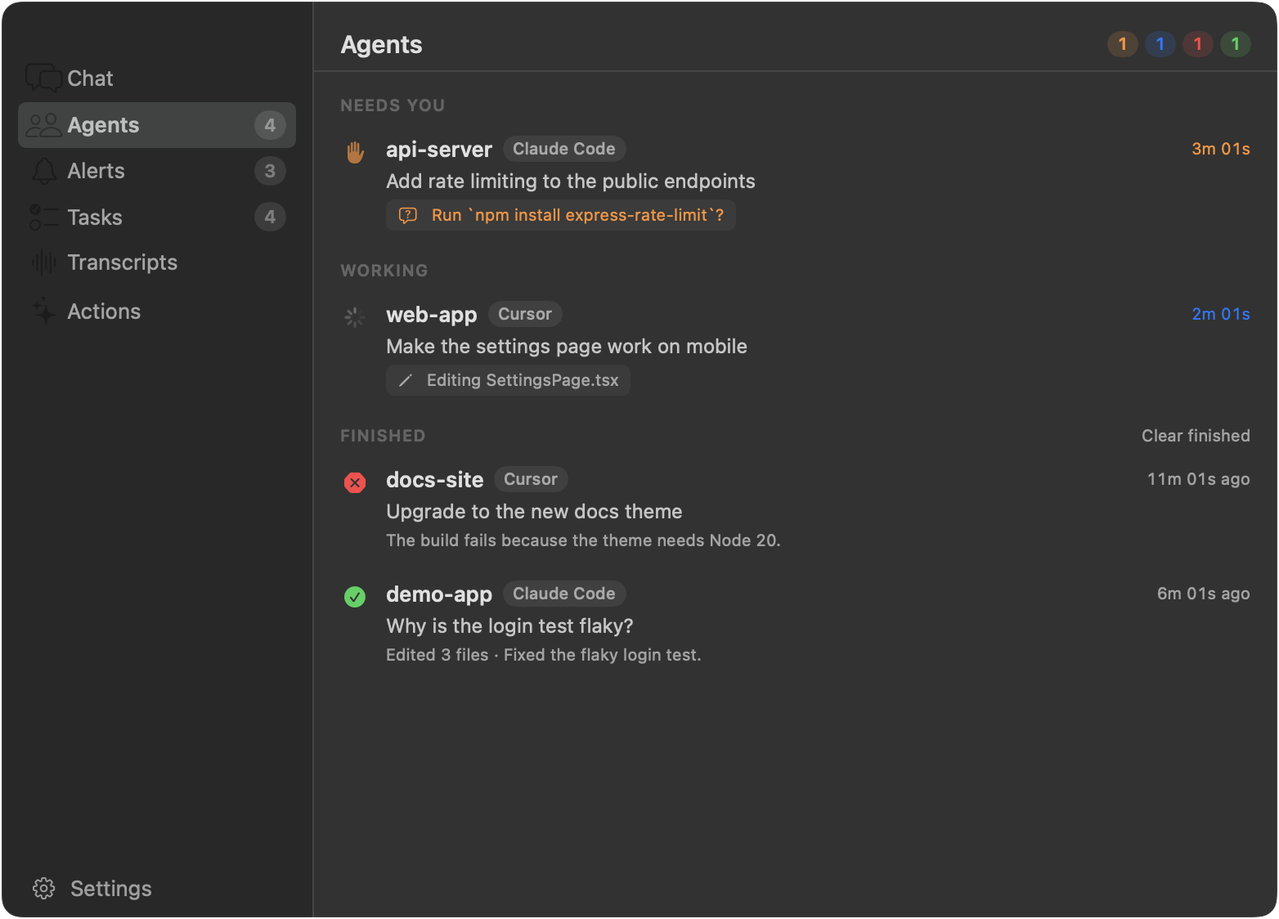
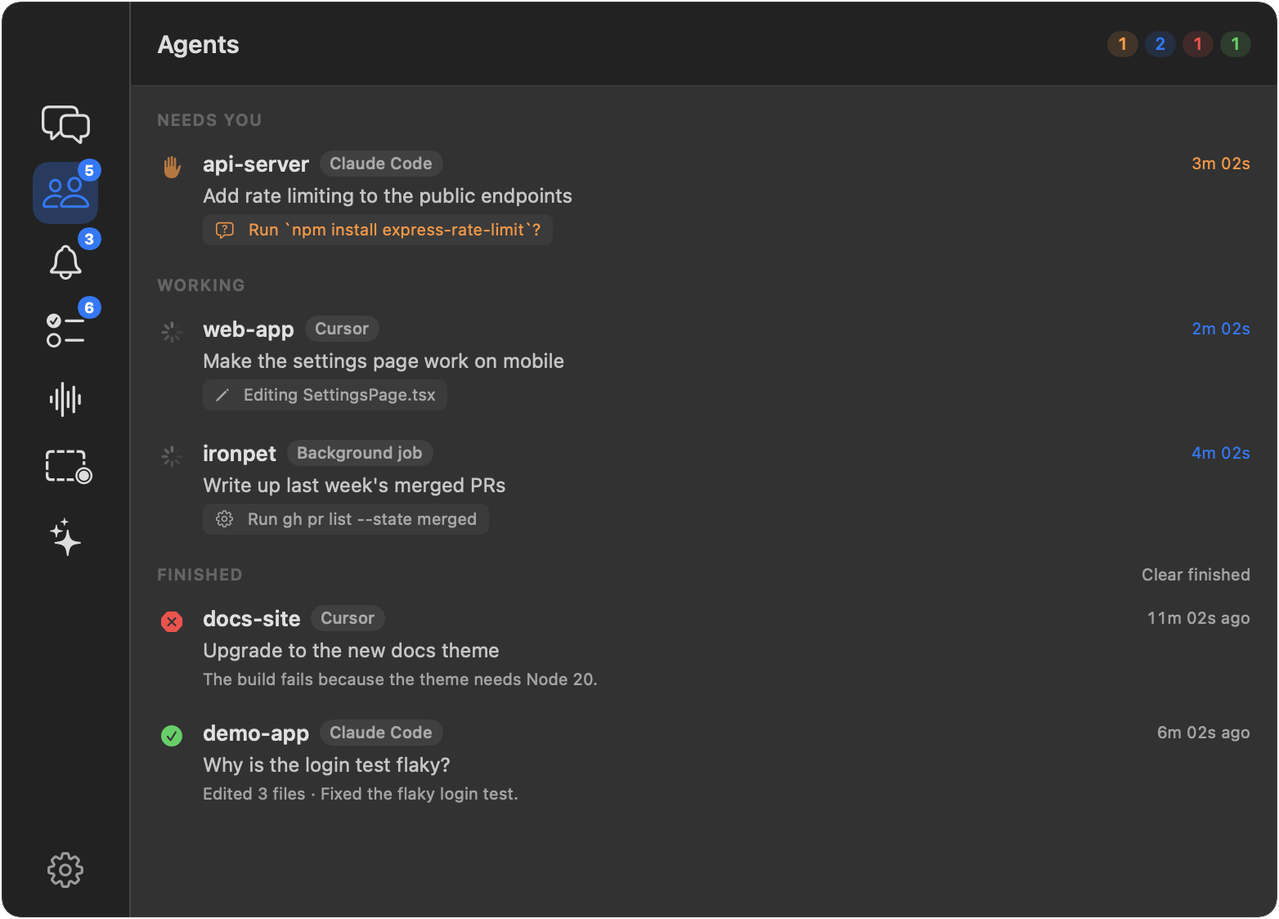
fix: match Cursor folders by path and keep follow-ups visible in job threads
- projects_resolve and jobs_start compare folders by standardized path, so a
  Cursor folder (file:// URL with a trailing slash) is one candidate
- no iTerm Apple Event on the main thread; watched sessions' folders count
- a job saves its thread when a turn starts, and the open thread keeps typed
  follow-ups the job has not started on
- interrupted jobs are marked in one UPDATE; the in-memory list is trimmed
- approval rule cases for the assistant tools; SECURITY wording on /mcp/job

diff --git a/Sources/IronPet/Jobs/JobService.swift b/Sources/IronPet/Jobs/JobService.swift
@@ -22,7 +22,7 @@ struct JobError: Error, LocalizedError {
 /// a job that was running when ironpet quit shows as interrupted on the next launch.
 @MainActor
 final class JobService: ObservableObject {
-    static let migrations: [Database.Migration] = [
+    nonisolated static let migrations: [Database.Migration] = [
         .init(500, "jobs: background jobs", sql: """
             CREATE TABLE jobs(id TEXT PRIMARY KEY, title TEXT NOT NULL, prompt TEXT NOT NULL, folder TEXT NOT NULL, agent TEXT NOT NULL,
                               model TEXT, thread TEXT, task TEXT, state TEXT NOT NULL, last_step TEXT, summary TEXT, error TEXT,
@@ -94,8 +94,8 @@ final class JobService: ObservableObject {
         self.tasks = tasks
         self.now = now
         prune()
-        jobs = load()
         interruptLeftovers()
+        jobs = load()
     }
 
     var unavailable: String? { database.unavailableReason }
@@ -128,6 +128,7 @@ final class JobService: ObservableObject {
             job.task = task?.id
         }
         jobs.insert(job, at: 0)
+        trim()
         save(job)
         onChange(job)
         pump()
@@ -237,6 +238,7 @@ final class JobService: ObservableObject {
                                workspace: URL(fileURLWithPath: job.folder), resume: self.job(id)?.thread, model: job.model,
                                images: [], files: [])
             run.transcript.beginTurn(.init(kind: .user(text), origin: ChatSession.jobOrigin))
+            saveThread(id, run: run)
             let error = await turnResult(id, run: run, turn: turn, agentName: agent.name)
             outcome = .some(error)
             saveThread(id, run: run)
@@ -376,16 +378,29 @@ final class JobService: ObservableObject {
 
     /// A job that was queued or running when ironpet quit has no process any more. Its task goes back to the backlog.
     private func interruptLeftovers() {
-        for job in jobs where job.state.isActive {
-            update(job.id) { job in
-                job.state = .interrupted
-                job.ended = self.now()
-                job.waitingFor = nil
-            }
-            if let task = job.task, tasks?.task(task)?.status == .inProgress {
-                _ = try? tasks?.update(task, status: .backlog, note: "ironpet quit while this job was running. Ask Ghost to run it again.",
-                                       by: Self.taskAuthor)
-            }
+        let active = JobState.allCases.filter(\.isActive).map(\.rawValue)
+        let marks = Array(repeating: "?", count: active.count).joined(separator: ", ")
+        let tasks = (try? database.read { db in
+            try db.rows("SELECT task FROM jobs WHERE state IN (\(marks)) AND task IS NOT NULL", active)
+        })?.compactMap { $0[0] as? String } ?? []
+        try? database.write { db in
+            try db.execute("UPDATE jobs SET state = ?, ended = ? WHERE state IN (\(marks))",
+                           [JobState.interrupted.rawValue, now().timeIntervalSince1970] + active)
+        }
+        for task in tasks where self.tasks?.task(task)?.status == .inProgress {
+            _ = try? self.tasks?.update(task, status: .backlog, note: "ironpet quit while this job was running. Ask Ghost to run it again.",
+                                        by: Self.taskAuthor)
+        }
+    }
+
+    /// Keeps the active jobs and the newest finished ones, `listed` in all.
+    private func trim() {
+        guard jobs.count > Self.listed else { return }
+        var finished = Self.listed - jobs.filter(\.state.isActive).count
+        jobs = jobs.filter { job in
+            if job.state.isActive { return true }
+            finished -= 1
+            return finished >= 0
         }
     }
 

diff --git a/Tests/IronPetTests/JobTests.swift b/Tests/IronPetTests/JobTests.swift
@@ -14,6 +14,7 @@ private final class FakeJobAgent: JobAgent {
     private(set) var cancelled = false
     private(set) var shutDown = false
     private var gate: CheckedContinuation<Void, Never>?
+    var isWaiting: Bool { gate != nil }
 
     func runTurn(_ turn: ACPTurn, onEvent: @escaping (AgentEvent) -> Void) async {
         turns.append(turn)
@@ -33,8 +34,9 @@ private final class FakeJobAgent: JobAgent {
         onEvent(.finished(error: error))
     }
 
-    func release() {
-        hold = false
+    /// Ends the turn that waits. Later turns wait too only with `holdingNext`.
+    func release(holdingNext: Bool = false) {
+        hold = holdingNext
         gate?.resume()
         gate = nil
     }
@@ -209,6 +211,22 @@ final class JobTests: XCTestCase {
         XCTAssertEqual(agents[0].turns[1].resume, "session-1")
     }
 
+    func testTheThreadShowsEachPromptAsSoonAsItsTurnStarts() async throws {
+        let jobs = service { $0.hold = true }
+        var saved: [ChatThread] = []
+        jobs.onThreadSaved = { saved.append($0) }
+        let job = try jobs.start(title: "Fix", prompt: "Fix it", folder: folder)
+        await until { agents.count == 1 }
+        try jobs.followUp(job.id, message: "Also update the README")
+        await until { agents[0].isWaiting }
+        agents[0].release(holdingNext: true)
+        await until { agents[0].turns.count == 2 }
+        let texts = saved.last?.items.compactMap { item -> String? in if case .user(let text) = item.kind { text } else { nil } }
+        XCTAssertEqual(texts, ["Fix it", "Also update the README"], "the follow-up is in the thread while its turn runs")
+        agents[0].release()
+        await until { jobs.job(job.id)?.state == .done }
+    }
+
     func testFollowUpOnAFinishedJobResumesItsSession() async throws {
         let jobs = service()
         let job = try jobs.start(title: "Fix", prompt: "Fix it", folder: folder)
@@ -268,6 +286,31 @@ final class JobTests: XCTestCase {
         job.state = .stopped
         store.setJob(key, job.agentSession)
         XCTAssertNil(store.sessions[key])
+    }
+
+    func testAMessageTypedInARunningJobsThreadGoesToTheJobAndStaysVisible() {
+        let chat = ChatSession(restore: false)
+        func thread(_ prompts: [String]) -> ChatThread {
+            ChatThread(id: "session-1", title: "Fix", workspace: folder.path, updatedAt: Date(),
+                       items: prompts.map { .init(kind: .user($0), origin: ChatSession.jobOrigin) }, agent: AgentCatalog.all[0].id, job: "job-1")
+        }
+        chat.open(thread(["Fix it"]))
+        var routed: [(String, String)] = []
+        chat.jobFollowUp = { thread, text in
+            routed.append((thread, text))
+            return true
+        }
+        chat.input = "Also update the README"
+        chat.send()
+        XCTAssertEqual(routed.map(\.1), ["Also update the README"])
+        XCTAssertEqual(routed.map(\.0), ["session-1"])
+        XCTAssertEqual(chat.input, "")
+
+        func prompts() -> [String] { chat.items.compactMap { if case .user(let text) = $0.kind { text } else { nil } } }
+        chat.threadSaved(thread(["Fix it"]))
+        XCTAssertEqual(prompts(), ["Fix it", "Also update the README"], "kept until the job starts on it")
+        chat.threadSaved(thread(["Fix it", "Also update the README"]))
+        XCTAssertEqual(prompts(), ["Fix it", "Also update the README"], "not shown twice")
     }
 
     func testHookEventsCannotPoseAsAJob() {

diff --git a/Sources/IronPet/Jobs/ProjectResolver.swift b/Sources/IronPet/Jobs/ProjectResolver.swift
@@ -3,12 +3,14 @@ import Foundation
 /// A folder a job may run in, and why ironpet knows it.
 struct ProjectCandidate: Equatable {
     enum Source: String {
-        /// The folder of the app the user was in (the front Cursor window or iTerm tab).
+        /// The folder of the front Cursor window, when Cursor is the app the user was in.
         case frontmost
         /// The chat's current folder.
         case chat
         /// A folder open in Cursor.
         case cursor
+        /// The folder of an agent session ironpet watches (Claude Code in iTerm, Cursor and the others).
+        case session
         /// A folder the chat used before.
         case recent
         /// `~/.ironpet/scratch`, for work that is not about code.
@@ -33,24 +35,38 @@ enum ProjectResolver {
         var ambiguous: Bool { best == nil && matches.count > 1 }
     }
 
-    /// Merges the sources in order of preference, one candidate per folder. Missing folders are dropped.
-    static func candidates(frontmost: URL?, chat: URL?, cursor: [URL], recents: [URL], scratch: URL,
+    /// Merges the sources in order of preference, one candidate per folder. Missing folders are dropped. Folders are compared
+    /// by path: Cursor's `file://` URLs end in a slash and `fileURLWithPath` ones may not.
+    static func candidates(frontmost: URL?, chat: URL?, cursor: [URL], sessions: [URL] = [], recents: [URL], scratch: URL,
                            exists: (URL) -> Bool = { FileManager.default.fileExists(atPath: $0.path) }) -> [ProjectCandidate] {
         var list: [ProjectCandidate] = []
+        let scratchPath = path(scratch)
         func add(_ url: URL?, _ source: ProjectCandidate.Source) {
-            guard let url = url?.standardizedFileURL else { return }
-            if let index = list.firstIndex(where: { $0.url == url }) {
+            guard let url, url.isFileURL else { return }
+            let key = path(url)
+            guard source == .noProject || key != scratchPath else { return }
+            if let index = list.firstIndex(where: { path($0.url) == key }) {
                 if !list[index].sources.contains(source) { list[index].sources.append(source) }
             } else if source == .noProject || exists(url) {
-                list.append(ProjectCandidate(url: url, sources: [source]))
+                list.append(ProjectCandidate(url: URL(fileURLWithPath: key, isDirectory: true), sources: [source]))
             }
         }
         add(frontmost, .frontmost)
-        add(chat == scratch ? nil : chat, .chat)
+        add(chat, .chat)
         cursor.forEach { add($0, .cursor) }
-        recents.filter { $0 != scratch }.forEach { add($0, .recent) }
+        sessions.forEach { add($0, .session) }
+        recents.forEach { add($0, .recent) }
         add(scratch, .noProject)
         return list
+    }
+
+    /// The standardized path, without a trailing slash, that two spellings of a folder share.
+    static func path(_ url: URL) -> String { url.standardizedFileURL.path }
+
+    /// The candidate for `path`, however it is spelled (`~`, a trailing slash, `..`).
+    static func candidate(at path: String, in candidates: [ProjectCandidate]) -> ProjectCandidate? {
+        let key = self.path(URL(fileURLWithPath: (path as NSString).expandingTildeInPath))
+        return candidates.first { self.path($0.url) == key }
     }
 
     static func resolve(_ name: String?, in candidates: [ProjectCandidate]) -> Result {

diff --git a/Tests/IronPetTests/AssistantMCPTests.swift b/Tests/IronPetTests/AssistantMCPTests.swift
@@ -71,7 +71,8 @@ final class AssistantMCPTests: XCTestCase {
         let jobs = JobService(database: database, tasks: nil)
         jobs.currentAgent = { nil }
         context.jobs = { jobs }
-        context.projects = { [folder] in [ProjectCandidate(url: folder!.standardizedFileURL, sources: [.chat])] }
+        let cursorURL = try XCTUnwrap(URL(string: "file://" + folder.path + "/"))
+        context.projects = { ProjectResolver.candidates(frontmost: cursorURL, chat: nil, cursor: [], recents: [], scratch: URL(fileURLWithPath: "/tmp/scratch")) }
 
         let invented = try await call("jobs_start", ["title": "Fix", "prompt": "Fix it", "folder": "/tmp/made-up"])
         XCTAssertTrue(invented.isError)
@@ -164,6 +165,21 @@ final class ProjectResolverTests: XCTestCase {
         let unknown = ProjectResolver.resolve("zebra", in: candidates())
         XCTAssertNil(unknown.best)
         XCTAssertFalse(unknown.ambiguous)
+    }
+
+    func testCursorURLsAndPathsOfTheSameFolderAreOneCandidate() throws {
+        let folder = FileManager.default.temporaryDirectory.appendingPathComponent("resolver-\(UUID().uuidString)/ironpet")
+        try FileManager.default.createDirectory(at: folder, withIntermediateDirectories: true)
+        defer { try? FileManager.default.removeItem(at: folder.deletingLastPathComponent()) }
+        let cursor = try XCTUnwrap(URL(string: "file://" + folder.path + "/"))
+        let list = ProjectResolver.candidates(frontmost: cursor, chat: nil, cursor: [cursor], sessions: [URL(fileURLWithPath: folder.path)],
+                                              recents: [URL(fileURLWithPath: folder.path, isDirectory: true)], scratch: scratch)
+        XCTAssertEqual(list.count, 2)
+        XCTAssertEqual(list[0].sources, [.frontmost, .cursor, .session, .recent])
+        XCTAssertEqual(ProjectResolver.resolve("ironpet", in: list).best?.url.path, folder.path)
+        XCTAssertNotNil(ProjectResolver.candidate(at: folder.path + "/", in: list))
+        XCTAssertNotNil(ProjectResolver.candidate(at: folder.path, in: list))
+        XCTAssertNil(ProjectResolver.candidate(at: folder.path + "-other", in: list))
     }
 
     func testNoNamePrefersTheFrontmostProject() {

diff --git a/Sources/IronPet/Chat/ChatSession.swift b/Sources/IronPet/Chat/ChatSession.swift
@@ -580,6 +580,7 @@ final class ChatSession: ObservableObject {
         replyingTo = nil
         items = []
         threadID = nil
+        jobMessages = []
         state = .idle
         lastRunDuration = nil
     }
@@ -596,6 +597,7 @@ final class ChatSession: ObservableObject {
         replyingTo = nil
         items = thread.items
         threadID = thread.id
+        jobMessages = []
         state = .idle
         let url = URL(fileURLWithPath: thread.workspace)
         workspace = url
@@ -633,8 +635,16 @@ final class ChatSession: ObservableObject {
     func threadSaved(_ thread: ChatThread) {
         refreshHistory()
         guard thread.id == threadID, !isRunning else { return }
-        items = thread.items
+        let sent = Set(thread.items.compactMap { item -> String? in
+            if case .user(let text) = item.kind { return text } else { return nil }
+        })
+        // Messages typed here that the job has not started on yet are not in its transcript.
+        jobMessages.removeAll { item in if case .user(let text) = item.kind { sent.contains(text) } else { true } }
+        items = thread.items + jobMessages
     }
+
+    /// Messages typed into the open job thread that are waiting for the job's current turn to end.
+    private var jobMessages: [Item] = []
 
     /// Takes a message typed in a thread whose background job is still running (thread id, text). Returns false when no
     /// job runs there, so the chat sends it itself.
@@ -645,7 +655,9 @@ final class ChatSession: ObservableObject {
         guard !prompt.isEmpty || !attachments.isEmpty else { return }
         speech.stop()
         if !isRunning, attachments.isEmpty, replyingTo == nil, let threadID, jobFollowUp?(threadID, prompt) == true {
-            items.append(Item(kind: .user(prompt), origin: Self.jobOrigin))
+            let item = Item(kind: .user(prompt), origin: Self.jobOrigin)
+            items.append(item)
+            jobMessages.append(item)
             input = ""
             return
         }

diff --git a/Sources/IronPet/App/AppDelegate.swift b/Sources/IronPet/App/AppDelegate.swift
@@ -353,8 +353,12 @@ final class AppDelegate: NSObject, NSApplicationDelegate {
             guard let self else { return [] }
             let front = NSWorkspace.shared.frontmostApplication
             let app = front?.processIdentifier == ProcessInfo.processInfo.processIdentifier ? previousApp : front
-            return ProjectResolver.candidates(frontmost: WorkspaceDetector.workspace(of: app), chat: chat.workspace,
-                                              cursor: WorkspaceDetector.cursorOpenFolders(), recents: chat.recents,
+            // Only Cursor's window: iTerm's folder needs an Apple Event, which could block here and prompt mid tool call.
+            // A terminal agent's folder comes in through its session instead.
+            let frontmost = app?.bundleIdentifier == SourceJumper.cursorBundleID ? WorkspaceDetector.workspace(of: app) : nil
+            let sessions = store.sessions.values.sorted { $0.updatedAt > $1.updatedAt }.compactMap { $0.origin.workspace }
+            return ProjectResolver.candidates(frontmost: frontmost, chat: chat.workspace, cursor: WorkspaceDetector.cursorOpenFolders(),
+                                              sessions: sessions.map { URL(fileURLWithPath: $0) }, recents: chat.recents,
                                               scratch: ChatSession.scratchWorkspace)
         }
         context.openJob = { [weak self] id in

diff --git a/Tests/IronPetTests/ApprovalRulesTests.swift b/Tests/IronPetTests/ApprovalRulesTests.swift
@@ -90,6 +90,20 @@ final class ApprovalRulesTests: XCTestCase {
         }
     }
 
+    func testAssistantReadsAndMemoryRunWithoutACardButJobControlAsks() {
+        for tool in ["status_overview", "status_sessions", "jobs_list", "jobs_get", "jobs_open", "projects_resolve",
+                     "memory_recall", "memory_remember", "memory_forget", "memory_list"] {
+            XCTAssertEqual(policy(ACPToolCall(id: "1", title: "mcp__ironpet__\(tool)", kind: "other", rawInput: ["text": "x"])), .allow, tool)
+            if case .allow = policy(ACPToolCall(id: "1", title: "mcp__other__\(tool)", kind: "other")) { XCTFail("another server must ask: \(tool)") }
+        }
+        for tool in ["jobs_start", "jobs_followup", "jobs_stop"] {
+            if case .allow = policy(ACPToolCall(id: "1", title: "mcp__ironpet__\(tool)", kind: "other", rawInput: ["id": "job-1"])) {
+                XCTFail("\(tool) must ask without Auto")
+            }
+            XCTAssertEqual(policy(ACPToolCall(id: "1", title: "mcp__ironpet__\(tool)", kind: "other", rawInput: ["id": "job-1"]), auto: true), .allow, tool)
+        }
+    }
+
     func testMCPNameFromAgentMetadata() {
         let call = ACPToolCall(json: ["toolCallId": "1", "title": "Query", "kind": "other", "_meta": ["claudeCode": ["toolName": "mcp__langfuse__getHealth"]]])
         XCTAssertEqual(call.mcp?.server, "langfuse")

diff --git a/Sources/IronPet/Jobs/AssistantMCP.swift b/Sources/IronPet/Jobs/AssistantMCP.swift
@@ -109,9 +109,7 @@ enum AssistantMCP {
         switch name {
         case "jobs_start":
             let path = try required("folder")
-            let folder = URL(fileURLWithPath: (path as NSString).expandingTildeInPath).standardizedFileURL
-            let candidates = context.projects()
-            guard let candidate = candidates.first(where: { $0.url == folder }) else {
+            guard let candidate = ProjectResolver.candidate(at: path, in: context.projects()) else {
                 throw JobError(message: "\(path) is not a folder ironpet knows. Call projects_resolve and use a path it returns.")
             }
             if candidate.sources.contains(.noProject) {

diff --git a/SPEC.md b/SPEC.md
@@ -128,12 +128,12 @@ The agent's board, not the user's: the agent keeps track of the items, the user 
 
 Ghost as a front desk: the chat agent (and, later, voice mode) hands work to background jobs and answers "what's going on" from ironpet's own stores.
 
-- **Model and store (`Jobs/JobModel.swift`, `Jobs/JobService.swift`).** Migration 500 adds `jobs` (id `job-xxxxxx`, title, prompt, folder, agent, model, thread, task, state, last step, summary, error, created, started, ended). States: `queued`, `running`, `needs_approval`, `done`, `failed`, `stopped`, `interrupted`. At launch, jobs that ended more than 30 days ago are deleted and active ones become `interrupted` (their in-progress task goes back to `backlog`). The newest 50 are kept in memory.
+- **Model and store (`Jobs/JobModel.swift`, `Jobs/JobService.swift`).** Migration 500 adds `jobs` (id `job-xxxxxx`, title, prompt, folder, agent, model, thread, task, state, last step, summary, error, created, started, ended). States: `queued`, `running`, `needs_approval`, `done`, `failed`, `stopped`, `interrupted`. At launch, jobs that ended more than 30 days ago are deleted and every active one becomes `interrupted` in one `UPDATE` (their in-progress task goes back to `backlog`). In memory: the active jobs and the newest finished ones, 50 in all.
 - **Running.** `JobService.start` validates (title 1 to 120 characters, prompt up to 20,000, an existing folder), creates an `in_progress` task with source `agent`, and queues the job. `pump` starts queued jobs, oldest first, while fewer than `jobs.maxRunning` (3, clamped to 1 to 5) hold a process. Each gets its own `ACPBackend` (`JobAgent` protocol, faked in tests) with `usageFeature = .jobs`, the chat's agent and model, and a first-turn preamble: `JobService.instructions` (unattended, no questions, stay in the folder, no pushes or messages unless asked, end with a one-sentence result) plus `Memory.preamble`. Elicitations are declined. Each turn has a 60-minute watchdog that cancels it and fails the job. Events go through `TranscriptRecorder` (shared with `AutomationSession`); the thread is saved under the ACP session id with `ChatThread.job`, and the task gets a `thread` link. The job ends `done` with the first sentence of the reply as its summary (task closed), `failed` (task `needs_you` with the error), or `stopped` (task closed).
 - **Approvals.** Permission requests get `ApprovalRules.policy(for:auto: true)`. What still asks (destructive commands and tools) moves the job to `needs_approval` and shows an Allow / Deny bubble (`AutomationNotice`, no expiry). Only a click answers it. Opening the job shows a closed bubble again; stopping the job or the end of the turn takes it down and denies.
 - **Follow-ups and stop.** `followUp` queues a message for a running job (sent after its turn, same process) or requeues a finished one, which resumes the session (`session/load`) without a preamble. `stop` drops a queued job, or cancels the running turn (`session/cancel`), denies its pending approvals and shuts the process down.
-- **In the app.** `Job.agentSession` maps a job to an `AgentSession` with source `job` ("Background job") under the key `job:<id>`, set through `SessionStore.setJob`: queued and running show as running (detail "Waiting to start" or the last step), `needs_approval` as needs input with "Wants to: …", done and failed as themselves, stopped and interrupted are removed. Hook events with source `job` are ignored, and `sweep` skips jobs. `onAttention` records activity as for any session; a job's needs input shows no session bubble, because the approval bubble covers it. A click on the row, the bubble or a brief item opens the job's thread in the chat (`PetController.onOpenJob`). While the job runs, `ChatSession.jobFollowUp` sends a message typed in that thread to the job instead, and `threadSaved` refreshes the open thread as the job writes it. Its prompts carry origin `job` ("Background job" under the message).
-- **Tools (`Jobs/AssistantMCP.swift`, routed by `MCPEndpoint` through `AssistantContext`).** `jobs_start(title, prompt, folder)`, `jobs_list(include_older?)`, `jobs_get(id)` (with the last 8 transcript steps), `jobs_followup(id, message)`, `jobs_stop(id)`, `jobs_open(id)` (refused while the chat is running a turn, since opening a thread ends it). `projects_resolve(name?)` returns `best`, `matches` and `ambiguous` from `ProjectResolver`: candidates are the frontmost app's folder (`WorkspaceDetector`), the chat's folder, Cursor's open folders (`storage.json`), recent chat folders and the no-project folder, deduplicated, missing folders dropped. Names are compared as lowercase letters and digits after dropping filler words ("the", "repo", "project"): same name 3, containment 2, same first three letters 1, and a single top score wins. `jobs_start` only accepts a candidate's path. `status_overview`, `status_sessions`, `status_alerts`, `status_today(kind)` and `status_meetings(limit?)` read `SessionStore` (jobs left out), `TaskStore`, `SignalStore`, `BriefSource` and `MeetingLibrary` (with `ActionItems.openItems` of each summary). `memory_recall`, `memory_remember(text, kind, workspace?)`, `memory_forget(text)` and `memory_list(kind?)` go to `MemoryStore`. Everything but `jobs_start`, `jobs_followup` and `jobs_stop` is in `ApprovalRules.ownTaskTools`.
+- **In the app.** `Job.agentSession` maps a job to an `AgentSession` with source `job` ("Background job") under the key `job:<id>`, set through `SessionStore.setJob`: queued and running show as running (detail "Waiting to start" or the last step), `needs_approval` as needs input with "Wants to: …", done and failed as themselves, stopped and interrupted are removed. Hook events with source `job` are ignored, and `sweep` skips jobs. `onAttention` records activity as for any session; a job's needs input shows no session bubble, because the approval bubble covers it. A click on the row, the bubble or a brief item opens the job's thread in the chat (`PetController.onOpenJob`). While the job runs, `ChatSession.jobFollowUp` sends a message typed in that thread to the job instead, and `threadSaved` refreshes the open thread as the job writes it, keeping typed messages the job has not started on yet. The job saves its thread when each turn starts and ends. Its prompts carry origin `job` ("Background job" under the message).
+- **Tools (`Jobs/AssistantMCP.swift`, routed by `MCPEndpoint` through `AssistantContext`).** `jobs_start(title, prompt, folder)`, `jobs_list(include_older?)`, `jobs_get(id)` (with the last 8 transcript steps), `jobs_followup(id, message)`, `jobs_stop(id)`, `jobs_open(id)` (refused while the chat is running a turn, since opening a thread ends it). `projects_resolve(name?)` returns `best`, `matches` and `ambiguous` from `ProjectResolver`: candidates are the front Cursor window's folder (`WorkspaceDetector`; iTerm is not asked, since that is an Apple Event on the main thread), the chat's folder, Cursor's open folders (`storage.json`), the folders of watched agent sessions, recent chat folders and the no-project folder, compared by standardized path (Cursor's URLs end in a slash), missing folders dropped. Names are compared as lowercase letters and digits after dropping filler words ("the", "repo", "project"): same name 3, containment 2, same first three letters 1, and a single top score wins. `jobs_start` only accepts a candidate's path. `status_overview`, `status_sessions`, `status_alerts`, `status_today(kind)` and `status_meetings(limit?)` read `SessionStore` (jobs left out), `TaskStore`, `SignalStore`, `BriefSource` and `MeetingLibrary` (with `ActionItems.openItems` of each summary). `memory_recall`, `memory_remember(text, kind, workspace?)`, `memory_forget(text)` and `memory_list(kind?)` go to `MemoryStore`. Everything but `jobs_start`, `jobs_followup` and `jobs_stop` is in `ApprovalRules.ownTaskTools`.
 - **Job scope.** A job's session gets ironpet's MCP entry with `IRONPET_MCP_SCOPE=job`, so its stdio bridge posts to `/mcp/job`, which leaves `jobs_start`, `jobs_followup`, `jobs_stop` and `jobs_open` out of `tools/list` and refuses them. A job cannot start or steer jobs.
 - **Memory (`Chat/MemoryStore.swift`).** `MemoryStore` is the interface (recall, remember, forget, list) so another memory module can replace the files. `FileMemoryStore` writes bullets to `me.md` (fact), `people.md` (person), `conversations.md` (conversation, stamped `yyyy-MM-dd HH:mm`, last 50 kept) and the project file (`Memory.projectFile`). A line is whitespace-collapsed, at most 500 characters, refused when `CaptureRedactor` finds a secret, and skipped when it repeats one (case-insensitive). `forget` needs 3 characters and refuses to remove more than 10 lines. `Memory.preamble` adds `people.md` when it has bullets.
 

diff --git a/SECURITY.md b/SECURITY.md
@@ -17,7 +17,7 @@ Please use GitHub's **Report a vulnerability** button on the repository's Securi
 - **One download, only when you allow it.** If you pick Claude Code, Codex or Pi and your PATH has no Node 22 or newer, the chat shows a **Download Bun** button instead of failing. Only a click starts the download. ironpet fetches Bun 1.4.4 (about 40 MB) from `github.com/oven-sh/bun`, reads the expected SHA-256 from the same release's `SHASUMS256.txt`, and unpacks the archive only if the checksum matches. It then clears the macOS quarantine flag on that file and keeps it at `~/.ironpet/runtime/bun`. A mismatch or a failed download shows an error and runs nothing. This is the only network request ironpet makes on its own initiative besides the optional GitHub, Sentry and voice features below.
 - **Telegram (off by default).** With Chat from Telegram on, ironpet long-polls `api.telegram.org` for the bot whose token you saved in Settings → Integrations, and sends each answer to a Telegram-started message back through the same API, so that text passes through Telegram's servers. Only Telegram user ids in `telegram.allowedUsers` reach the chat; everyone else is ignored. With nobody allowed, a `/start` shows an Allow / Deny bubble on the Mac, and only the first user can be paired that way. An allowed user can start turns in the chat that is open on the Mac, so treat their account like your own. A turn started from Telegram follows the same approval rules as one typed on the Mac. With Auto on, an allowed Telegram user can run non-destructive commands, file edits and MCP tools without anyone approving them, so keep `telegram.allowedUsers` short. Destructive commands still ask, and the card goes to Telegram as Approve / Reject buttons as well as to the Mac. With Auto off, edits, deletions and shell commands ask as usual. Reads, searches and read-only tools run without a card. Files an allowed user sends are saved under `~/.ironpet/telegram/files/` (up to 20 MB each) and handed to the agent, and voice messages go to the transcription server from Settings → Voice. An allowed user can also approve or reject tool approvals of a turn they started, from Telegram. The token is in the Keychain item `ironpet.telegram`, never in `~/.ironpet`.
 - **Tasks.** The chat agent and any program that can read `~/.ironpet/token` (the `IronPet tasks` CLI) can create, change and delete tasks through the local server. Tasks are data in `ironpet.db` and never run anything, so the tools need no approval card, like memory-note edits. An automation `prompt` action runs in your chat with the chat's full tools, so it can change tasks and files like anything you type there. An agent that creates or changes one needs your Approve first. A prompt that uses poll item data (`{{item.*}}`) never goes to the chat, because that text comes from outside. It runs in a background agent that gets no MCP tools and cannot change tasks, like the one for meeting summaries. Meeting action items come from what people said on a call, so they are only suggestions until you press Add in the Tasks section or a chat agent accepts them with `tasks_suggestion_accept`, and they are never sent to an agent as instructions. The same goes for a watcher automation's `suggest_task` action: text from an email, a chat message or an issue only becomes a suggestion, with control characters removed, length limits, at most 10 per run and only an http or https link, and it becomes a task only when you press Add. The agent is told that task text is data.
-- **Background jobs.** A chat agent can start a job (`jobs_start`), which runs your chosen agent unattended in a folder ironpet already knows (the app you're in, the chat's folder, folders open in Cursor, recent chat folders, or `~/.ironpet/scratch`); a path the agent makes up is refused. In a chat without **Auto**, starting, adding to and stopping a job asks first. The job's own permission requests are answered as if Auto were on: commands and file edits run without a card, destructive commands (`rm -rf`, `git push --force`, `git reset --hard`, dropping tables and similar) wait for a click on Allow in a bubble. Only a click approves, never a chat or spoken answer. The Auto caveats above apply: a command that is harmful but not on the destructive list runs, and an agent that runs tools without asking does so with no card. The job's session cannot start, steer or stop other jobs (`/mcp/job` leaves those tools out). Its transcript is saved in `~/.ironpet/threads` and its prompt, folder and last step in `ironpet.db` for 30 days.
+- **Background jobs.** A chat agent can start a job (`jobs_start`), which runs your chosen agent unattended in a folder ironpet already knows (the front Cursor window, the chat's folder, folders open in Cursor, folders of watched agent sessions, recent chat folders, or `~/.ironpet/scratch`); a path the agent makes up is refused. In a chat without **Auto**, starting, adding to and stopping a job asks first. The job's own permission requests are answered as if Auto were on: commands and file edits run without a card, destructive commands (`rm -rf`, `git push --force`, `git reset --hard`, dropping tables and similar) wait for a click on Allow in a bubble. Only a click approves, never a chat or spoken answer. The Auto caveats above apply: a command that is harmful but not on the destructive list runs, and an agent that runs tools without asking does so with no card. The MCP connection a job gets (`/mcp/job`) does not offer the tools that start, steer, stop or open jobs, so the job's agent is not invited to start more. That is not a hard boundary: the job runs commands as you, and like the task tools, anything that can read `~/.ironpet/token` can reach the full `/mcp`. Its transcript is saved in `~/.ironpet/threads` and its prompt, folder and last step in `ironpet.db` for 30 days.
 - **Assistant tools.** `status_*` tools let chat agents read the sessions ironpet watches (prompt snippets, summaries), open alerts, tasks, the brief and recap, and recent meeting summary lines with your open action items. `memory_*` tools write and remove lines in `~/.ironpet/memory/`; text that looks like a secret is refused. Both run without a card, like the task tools. What an agent reads through them goes to that agent's provider.
 - **Stream automations.** A `stream` trigger keeps a shell command running as your user, with your login-shell `PATH`, for as long as the automation is on. An agent that creates or changes one needs your Approve before the command first starts, and again after every change to the command. Rejecting turns it off. ironpet starts the command in its own process group and stops the whole group when you pause, delete or change the automation or quit the app (SIGTERM, then SIGKILL after 2 seconds). Each output line is data from outside: it only fills `{{item.*}}`, which is quoted for the shell in a `shell` action, and a `prompt` that uses it runs in the restricted background session, as for polls. Lines over 64 KiB and more than 20 events a second are dropped, so a noisy command cannot flood the action. The command may not hold a literal token.
 - **Morning brief and recap.** A `digest` action reads only what is already on the Mac (tasks, alerts, the activity log in `ironpet.db`, the sessions in memory and meeting summaries under `~/.ironpet/meetings`), runs no command and starts no agent, so it needs no approval, whoever created it. It writes only the run in the automation history and, for its schedule, the last slot it delivered in `automation_daily` in `ironpet.db`. The bubble and the Today page show task titles, alert titles and meeting action items beside Ghost, as the other bubbles do.

diff --git a/README.md b/README.md
@@ -204,7 +204,7 @@ The task list belongs to the agent, not to you, so nothing is lost by moving car
 
 Ask Ghost to do something that takes a while ("fix the flaky login test in ironpet", "write up last week's PRs") and the chat agent can hand it to a **background job** with `jobs_start` instead of doing it in the chat. A job is its own agent session, with the chat's agent and model, in one folder. It shows in the Agents section as "Background job" with its last step, and Ghost tells you when it finishes or fails. A task in progress tracks it; the job closes the task when it's done, and marks it needs you when it fails.
 
-- **Which folder.** `projects_resolve` matches what you called the project to the folders ironpet knows: the app you're in (the front Cursor window or iTerm tab), the chat's folder, folders open in Cursor, and recent chat folders. With no name it uses the project you're in, it asks when two match, and work that is not about code runs in `~/.ironpet/scratch`. A job never runs in a folder outside that list.
+- **Which folder.** `projects_resolve` matches what you called the project to the folders ironpet knows: the front Cursor window, the chat's folder, folders open in Cursor, the folders of agent sessions ironpet watches (so a Claude Code in iTerm counts), and recent chat folders. With no name it uses the project you're in, it asks when two match, and work that is not about code runs in `~/.ironpet/scratch`. A job never runs in a folder outside that list.
 - **Approvals.** A job runs as if the chat's **Auto** switch were on: commands and edits go ahead, but destructive commands (`rm -rf`, `git push --force`, `git reset --hard` and the like) wait for you to click **Allow** in a bubble. Nobody can approve one by voice or by asking the chat agent. A closed bubble comes back when you open the job.
 - **Talking to it.** Ask Ghost how it's going (`jobs_list`, `jobs_get`), add to it (`jobs_followup`), or stop it (`jobs_stop`). Starting, adding to and stopping a job asks first in a chat without Auto. Click the job's row to read its transcript in the chat; a message typed there goes to the job while it runs. At most `jobs.maxRunning` (3, from 1 to 5) run at once, the rest wait in line. A turn that runs longer than an hour fails. A job that was running when ironpet quit shows as interrupted, and its task goes back to the backlog.
 - **What's going on.** `status_overview` gathers the agent sessions that need you or are running, jobs, tasks that need you, open alerts and recent meetings in one call, so "anything need me?" has one answer. `status_sessions`, `status_alerts`, `status_today` (the brief or the recap) and `status_meetings` (with your open action items) give the details.
